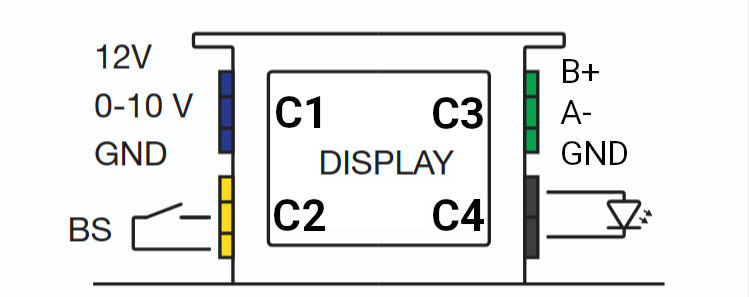
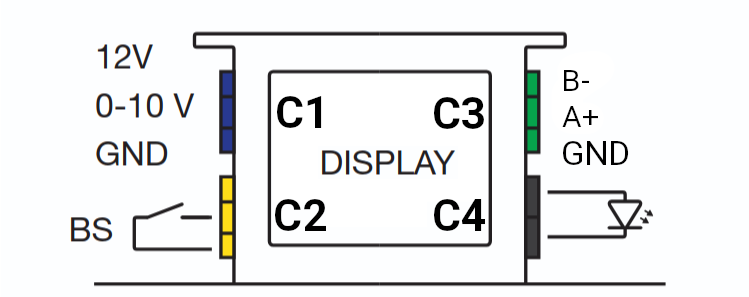
update docs

diff --git a/README.md b/README.md
@@ -1,13 +1,39 @@
 ## ESPHome Zehnder ComfoAir E300/E400
-ESPHome component for communication with the Zehnder ComfoAir E300/E400 heat recovering ventilation units.
+ESPHome component for communication with the Zehnder ComfoAir E300/E400 heat recovering ventilation units. This module allows for reading sensor states into Home-assistant.
 
 ### Setup 
 The unit uses RS485 serial communication at 19200:8:EVEN:1. Connect using a twisted pair wired to the C3 port on the Zehnder unit.
 
-The C3 connector is located at the top right of display. To access it, remove the cover surrounding the display by removing three torx screws. 
+The C3 connector is located at the top right of display. To access it, remove the cover surrounding the display by removing three Torx screws. 
 The pin-out is shown in the image below:
-
 ![C3 port pinout](docs/connector.png)
+
+| Connector | Description                                             |
+|-----------|---------------------------------------------------------|
+| C1        | Analog (0-10 V) control input                           |
+| C2        | Bathroom switch                                         |
+| C3        | RS485 serial interface                                  |
+| C4        | Malfunction indicator (5V when malfunction is detected) |
+
+### Hardware
+The example hardware is based on a nodeMCU V2 and a MAX485 module that converts the RS485 signal to UART. Two different type of modules are available, with and without automatic flow control.
+
+| Without automatic flow control                    | With automatic flow control                    |
+| --------------------------------------------------|------------------------------------------------|
+| <img src="docs/max485_no_flow.jpg" width="320" /> | <img src="docs/max485_flow.jpg" width="290" /> |
+
+Note that the pin-out is different. The module with automatic flow control has input pins labeled TDX and RDX while the module without automatic flow control has pins labeled DI, RO, RE and DE.
+
+In order to connect the MAX485 module to the nodeMCU the following mapping can be used. 
+
+| nodeMCU | MAX485 | MAX485 (w/o flow control) |
+|---------|--------|---------------------------|
+| GPI01   | TDX    | DI (Driver Input)         |
+| GPI03   | RDX    | RO (Receiver Output)      |
+| GPIO2   | -      | RE (Receiver Enable)      |
+| GPIO2   | -      | DE (Driver Enable)        |
+
+Next, connect the VCC and GND pins. Finally, the A+ and B- ports of the MAX485 module should be connected to the A+ and B- ports on the C3 connector using a twisted pair. 
 
 ### Example of minimal configuration yaml
 ```yaml
@@ -28,38 +54,37 @@ logger:
 ```
 
 ### Registry table
+The following data fields have been identified on from the holding registers. Currently, all registers are read-only.
 
-holding registers
-
-| Adress | Name                                | Datatype | Unit  | Note                     |
-|--------|-------------------------------------|----------|-------|--------------------------|
-| 0x136  | Exhaust fan duty cycle              | U_WORD   | %*10  |                          |
-| 0x137  | Supply fan duty cycle               | U_WORD   | %*10  |                          |
-| 0x138  | Exhaust fan flow rate               | U_WORD   | m³/h  |                          |
-| 0x139  | Supply fan flow rate                | U_WORD   | m³/h  |                          |
-| 0x13A  | Exhaust fan speed                   | U_WORD   | RPM   |                          |
-| 0x13B  | Supply fan speed                    | U_WORD   | RPM   |                          |
-| 0x12C  | Outdoor air temperature             | S_WORD   | °C*10 |                          |
-| 0x12D  | Pre-heater temperature              | S_WORD   | °C*10 |                          |
-| 0x12F  | Supply air temperature              | S_WORD   | °C*10 |                          |
-| 0x130  | Extract air temperature             | S_WORD   | °C*10 |                          |
-| 0x131  | Exhaust air temperature             | S_WORD   | °C*10 |                          |
-| 0x132  | Outdoor humidity                    | U_WORD   | %*10  |                          |
-| 0x133  | Supply humidity                     | U_WORD   | %*10  |                          |
-| 0x134  | Extract humidity                    | U_WORD   | %*10  |                          |
-| 0x135  | Exhaust humidity                    | U_WORD   | %*10  |                          |
-| 0x141  | Exhaust fan flow rate setpoint      | U_WORD   | m³/h  |                          | 
-| 0x140  | Supply fan flow rate setpoint       | U_WORD   | m³/h  |                          |
-| 0x148  | 0-10 V control setpoint             | U_WORD   | %     | 0:low;50:medium;100:high |
-| 0x149  | RF control setpoint                 | U_WORD   | %     | 0:low;50:medium;100:high |
-| 0x14A  | 3-way switch control setpoint       | U_WORD   | %     | 0:low;50:medium;100:high |
-| 0x14B  | Bathroom switch control setpoint    | U_WORD   | %     | 0:low;50:medium;100:high |
-| 0x13C  | 0-10 V input voltage                | U_word   | V*100 | steering signal (0-10V)  |
-| 0x13D  | RF input voltage                    | U_WORD   | V*100 | steering signal (0-10V)  |
-| 0x13E  | RF input enabled                    | U_WORD   | -     | 0:off;1:on               |
-| 0x13F  | Pre-heater active                   | U_WORD   | -     | 0:off;1:on               |
-| 0x152  | Pre-heater present*                 | U_WORD   | -     | 0:absent;1:present       |
-| 0x151  | Fireplace mode*                     | U_WORD   | -     | 0:off;1:on               |
-| 0x06E  | Firmware version                    | U_WORD   | -     | 20800 = 2.8.0            |
+| Adress | Name                                | Datatype | Unit | Scale | Note                     |
+|--------|-------------------------------------|----------|------|-------|--------------------------|
+| 0x136  | Exhaust fan duty cycle              | U_WORD   | %    | 10    |                          |
+| 0x137  | Supply fan duty cycle               | U_WORD   | %    | 10    |                          |
+| 0x138  | Exhaust fan flow rate               | U_WORD   | m³/h | 1     |                          |
+| 0x139  | Supply fan flow rate                | U_WORD   | m³/h | 1     |                          |
+| 0x13A  | Exhaust fan speed                   | U_WORD   | RPM  | 1     |                          |
+| 0x13B  | Supply fan speed                    | U_WORD   | RPM  | 1     |                          |
+| 0x12C  | Outdoor air temperature             | S_WORD   | °C   | 10    |                          |
+| 0x12D  | Pre-heater temperature              | S_WORD   | °C   | 10    |                          |
+| 0x12F  | Supply air temperature              | S_WORD   | °C   | 10    |                          |
+| 0x130  | Extract air temperature             | S_WORD   | °C   | 10    |                          |
+| 0x131  | Exhaust air temperature             | S_WORD   | °C   | 10    |                          |
+| 0x132  | Outdoor humidity                    | U_WORD   | %    | 10    |                          |
+| 0x133  | Supply humidity                     | U_WORD   | %    | 10    |                          |
+| 0x134  | Extract humidity                    | U_WORD   | %    | 10    |                          |
+| 0x135  | Exhaust humidity                    | U_WORD   | %    | 10    |                          |
+| 0x141  | Exhaust fan flow rate setpoint      | U_WORD   | m³/h | 1     |                          | 
+| 0x140  | Supply fan flow rate setpoint       | U_WORD   | m³/h | 1     |                          |
+| 0x148  | Analog (0-10 V) control setpoint    | U_WORD   | %    | 1     | 0:low;50:medium;100:high |
+| 0x149  | RF control setpoint                 | U_WORD   | %    | 1     | 0:low;50:medium;100:high |
+| 0x14A  | 3-way switch control setpoint       | U_WORD   | %    | 1     | 0:low;50:medium;100:high |
+| 0x14B  | Bathroom switch control setpoint    | U_WORD   | %    | 1     | 0:low;50:medium;100:high |
+| 0x13C  | Analog (0-10 V) input voltage       | U_word   | V    | 100   | steering signal (0-10V)  |
+| 0x13D  | RF input voltage                    | U_WORD   | V    | 100   | steering signal (0-10V)  |
+| 0x13E  | RF input enabled                    | U_WORD   | -    | -     | 0:off;1:on               |
+| 0x13F  | Pre-heater active                   | U_WORD   | -    | -     | 0:off;1:on               |
+| 0x152  | Pre-heater present*                 | U_WORD   | -    | -     | 0:absent;1:present       |
+| 0x151  | Fireplace mode*                     | U_WORD   | -    | -     | 0:off;1:on               |
+| 0x06E  | Firmware version                    | U_WORD   | -    | -     | 20800 = 2.8.0            |
 
 *Only available on later firmware versions (confirmed on 2.8.0)
